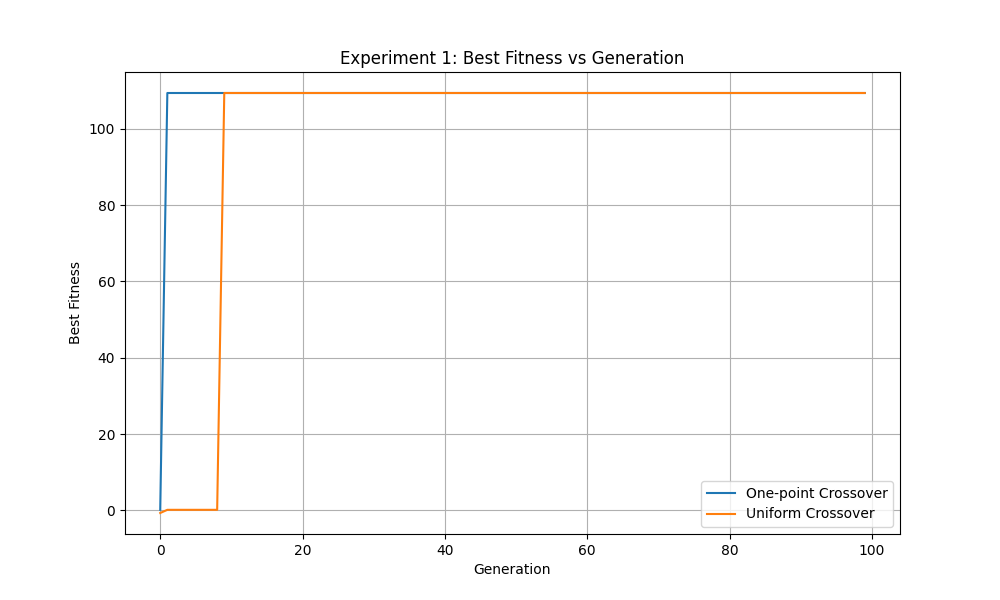
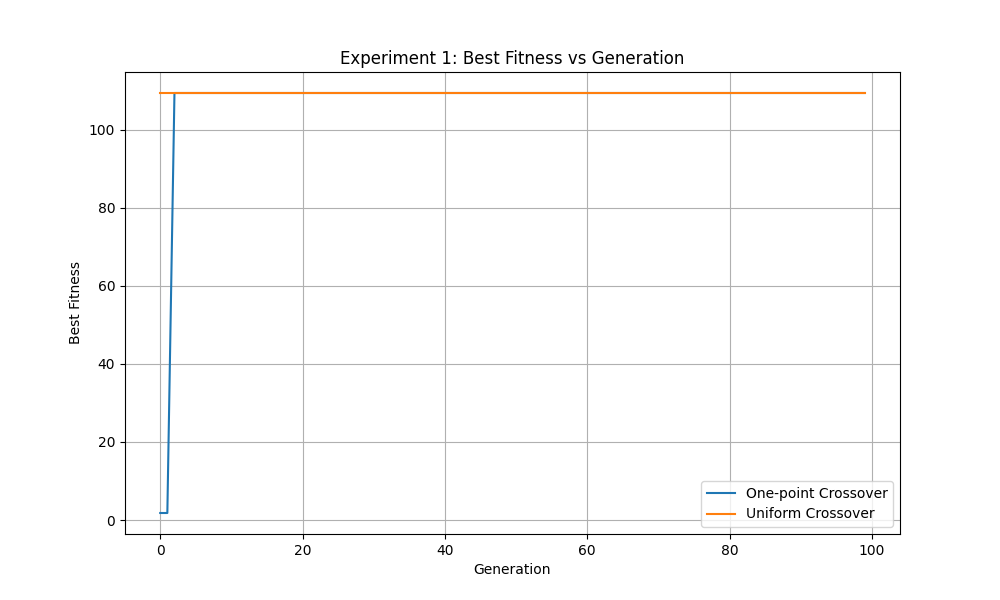
comment lines

Changed region(s): [[0.093, 0.15, 0.899, 0.87], [0.217, 0.57, 0.248, 0.63], [0.093, 0.57, 0.124, 0.63]]

diff --git a/src/environment.py b/src/environment.py
@@ -13,8 +13,8 @@ class Environment:
 
     def evaluate_policy(self, policy, weights):
         state, info = self.env.reset()
-        terminated = False
-        truncated = False
+        terminated = False  # episode is terminated if the agent falls into a hole or reaches the goal
+        truncated = False   # episode is truncated if the agent takes too many steps
         steps = 0
         success = 0
         fell_into_hole = 0

diff --git a/src/individual.py b/src/individual.py
@@ -8,6 +8,7 @@ class Individual:
             # 0: Left, 1: Down, 2: Right, 3: Up
             self.genotype = np.random.randint(0, 4, size=genotype_length)
         
+        # initialize fitness with -inf to ensure any valid fitness is better
         self.fitness = -float('inf')
         self.success = 0
         self.steps = 0
